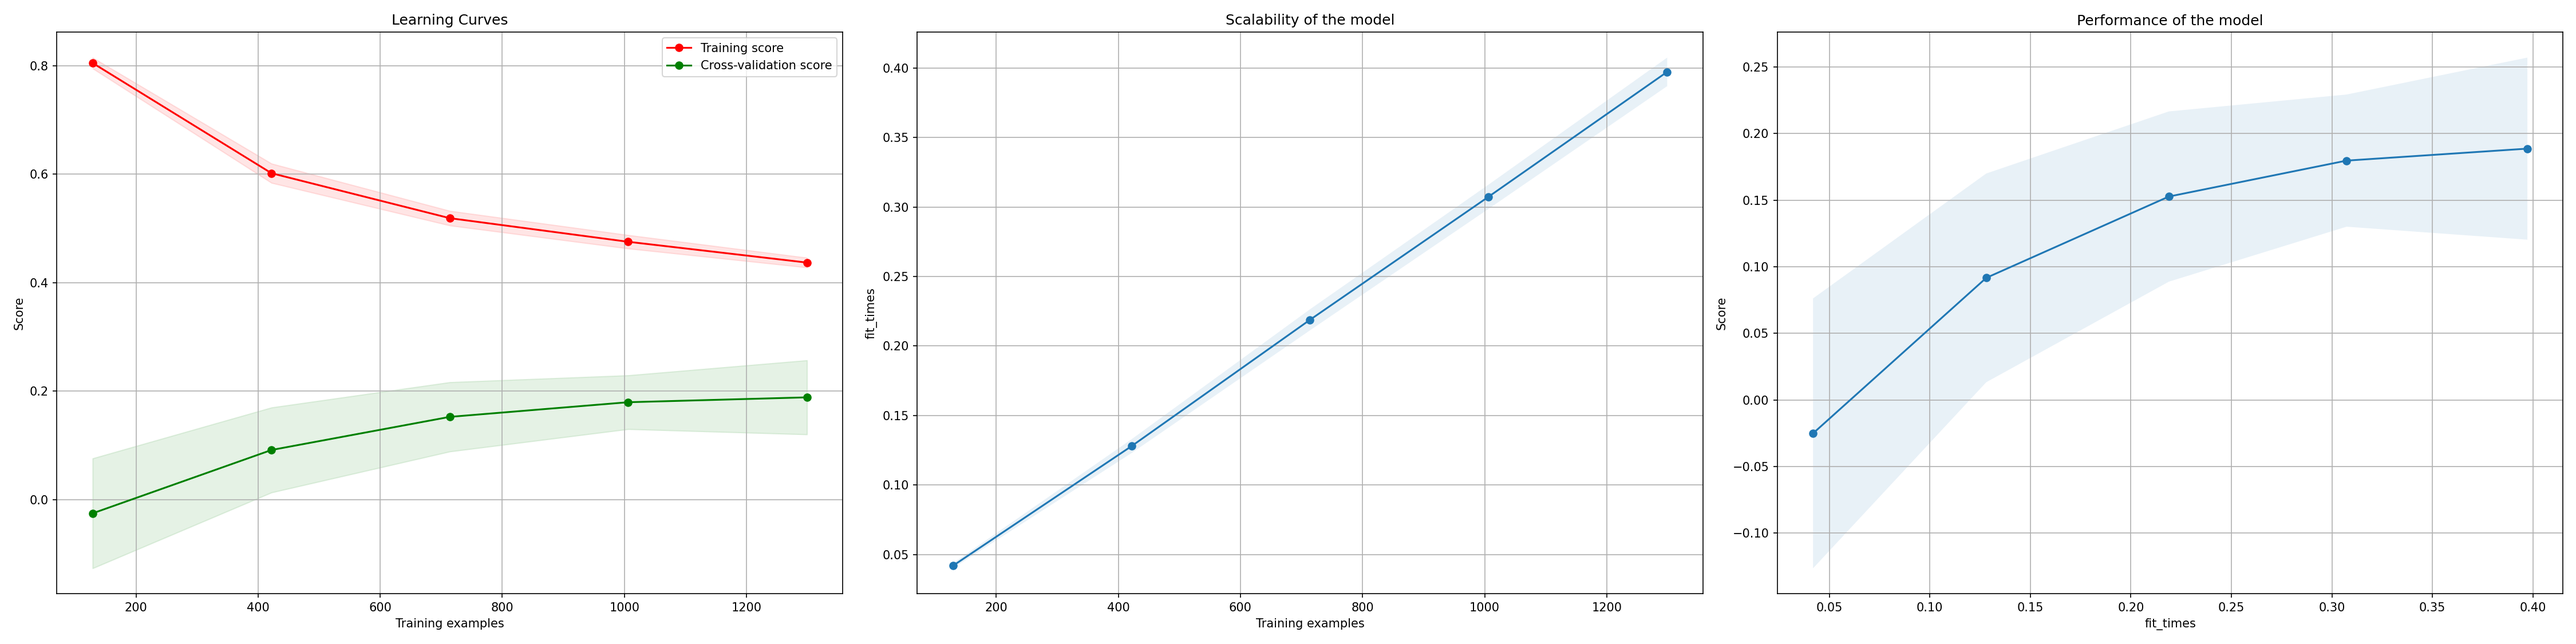
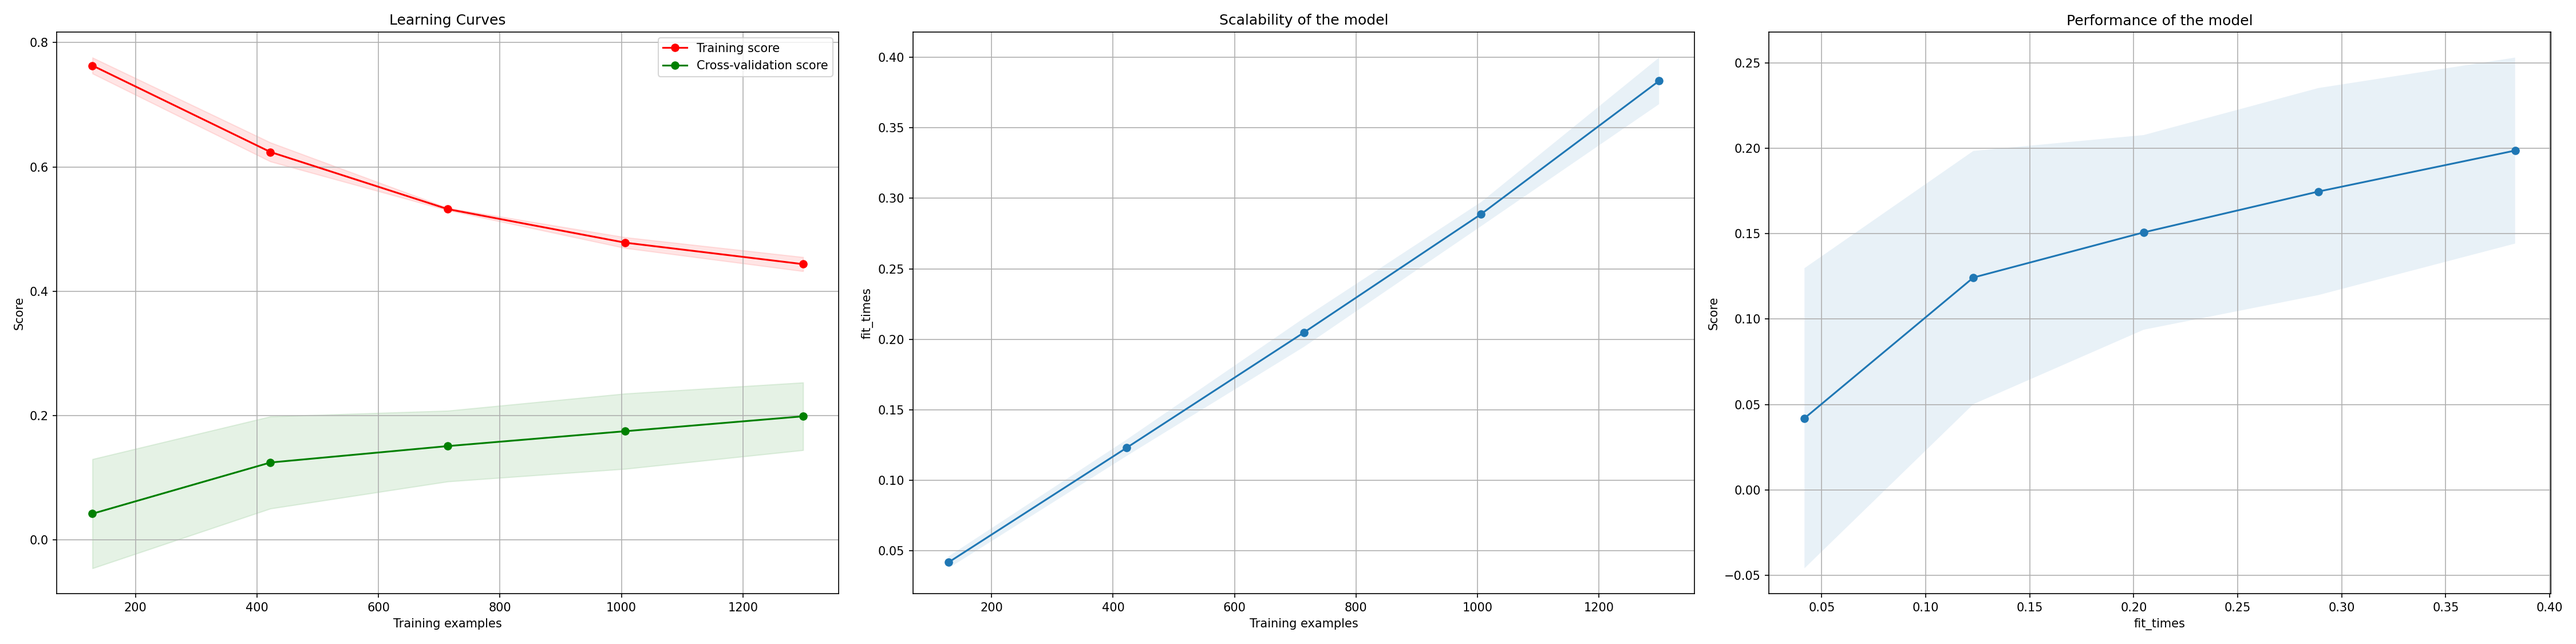
Updated paramenters and running experiment #7

diff --git a/src/anomaly_detect.py b/src/anomaly_detect.py
@@ -53,7 +53,7 @@ def anomaly_detect(X, feat_names):
         clf.fit(df[feature_names])
         #Predict the outlier labels
         y_pred = clf.labels_
-        #add the outlier label column to the dataframe
+        #add the outlier label column to the dataframe.
         new_col = 'y_pred_' + clf_name
         X[new_col] = y_pred
     print('Anomaly detection model execution completed')
